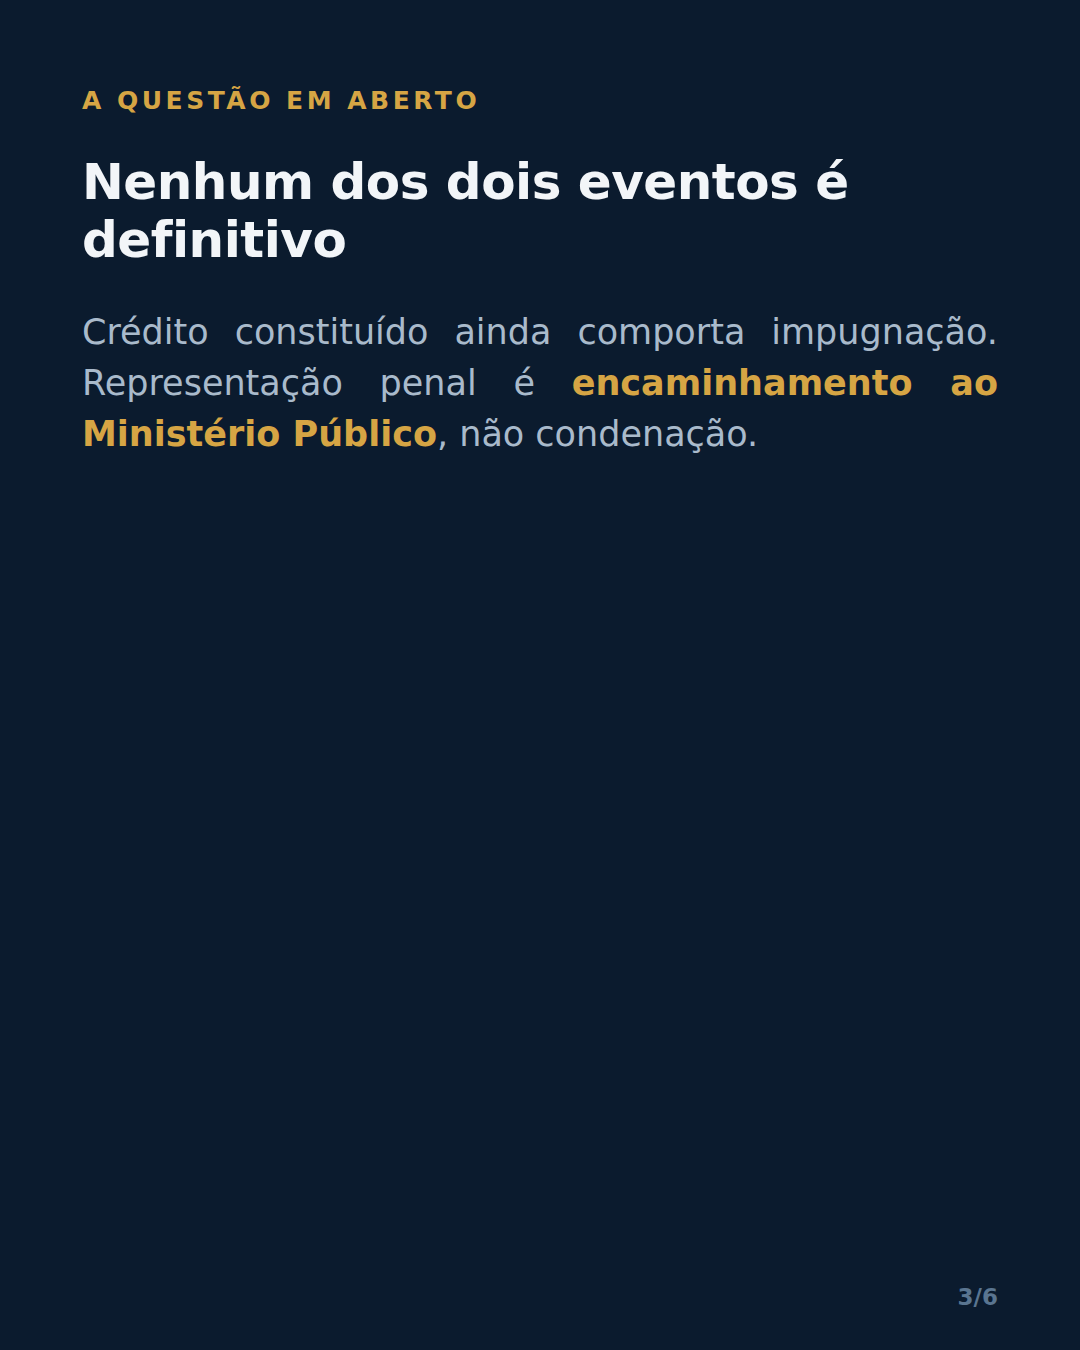
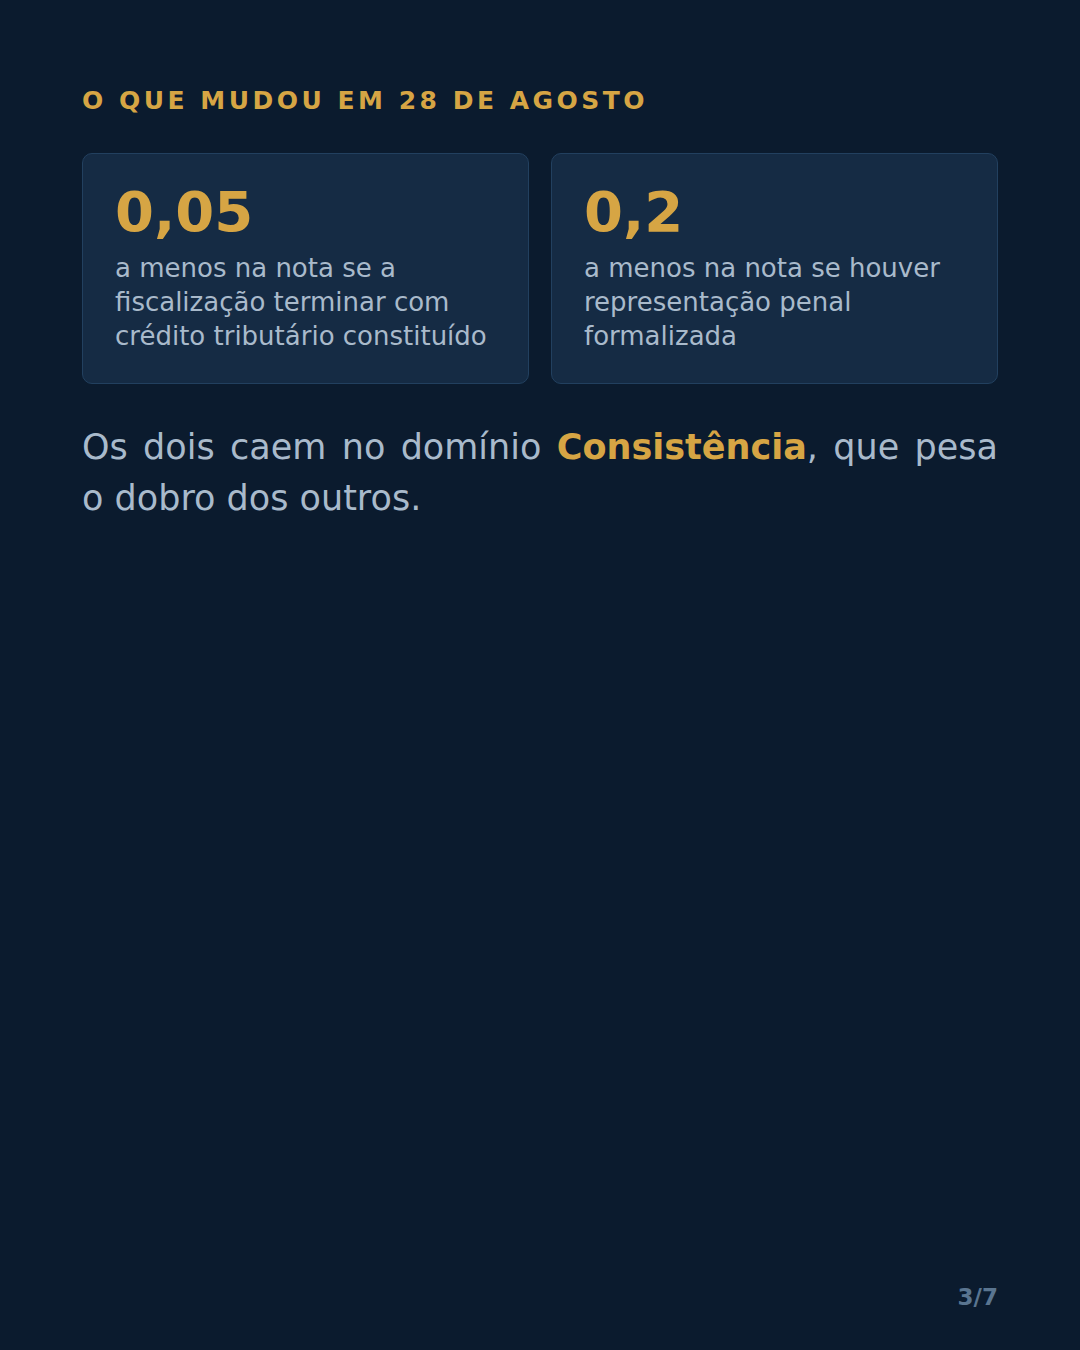
LinkedIn 2026-08-31 rev. 2: reescrita didatica do texto e do carrossel
O usuario reprovou a rodada 1 por dificuldade de entendimento. Mantido o tema e
refeitos texto e slides, agora explicando o programa (escala A+ a D, peso do
dominio Consistencia, Selo Sintonia e bonus de ate 3% na CSLL) antes de entrar
nos redutores.

Abre o texto integral da IN RFB no 2.316/2026 no DOU, que na rodada 1 nao havia
sido localizado. Com ele a tese ganhou o ponto central: o art. 17, § 1o exclui a
impugnacao de lancamento do pedido de revisao da classificacao, de modo que
enquanto o contencioso corre nao ha via para derrubar o redutor.

Inclui folha-contato-celular.png (700 px, 2 colunas) para anexo em e-mail.

Claude-Session: https://claude.ai/code/session_01JazATEZeyNgF38SAJq4xMa

Changed region(s): [[0.0611, 0.1244, 0.9167, 0.3733], [0.0611, 0.0622, 0.6111, 0.0933]]

diff --git a/estado/publicacoes/2026-08-31-sintonia-redutores-ato-nao-definitivo/criativo/html/folha-contato.html b/estado/publicacoes/2026-08-31-sintonia-redutores-ato-nao-definitivo/criativo/html/folha-contato.html
@@ -1,9 +1,9 @@
 <meta charset="utf-8"><style>
       *{margin:0;padding:0;box-sizing:border-box}
       body{background:#06111d;padding:16px;display:grid;
-           grid-template-columns:repeat(4,383px);gap:12px}
+           grid-template-columns:repeat(2,328px);gap:12px}
       .c{position:relative;line-height:0}
-      .c img{width:383px;display:block;border-radius:6px}
+      .c img{width:328px;display:block;border-radius:6px}
       .c span{position:absolute;right:6px;top:6px;background:#D6A544;color:#0B1B2E;
               font:700 13px/1 Arial,sans-serif;padding:4px 7px;border-radius:4px}
-    </style><div class="c"><img src="file:///home/user/Valida-o---NCM-RTC_EscritaFiscal/estado/publicacoes/2026-08-31-sintonia-redutores-ato-nao-definitivo/criativo/slide-01.png"><span>1</span></div><div class="c"><img src="file:///home/user/Valida-o---NCM-RTC_EscritaFiscal/estado/publicacoes/2026-08-31-sintonia-redutores-ato-nao-definitivo/criativo/slide-02.png"><span>2</span></div><div class="c"><img src="file:///home/user/Valida-o---NCM-RTC_EscritaFiscal/estado/publicacoes/2026-08-31-sintonia-redutores-ato-nao-definitivo/criativo/slide-03.png"><span>3</span></div><div class="c"><img src="file:///home/user/Valida-o---NCM-RTC_EscritaFiscal/estado/publicacoes/2026-08-31-sintonia-redutores-ato-nao-definitivo/criativo/slide-04.png"><span>4</span></div><div class="c"><img src="file:///home/user/Valida-o---NCM-RTC_EscritaFiscal/estado/publicacoes/2026-08-31-sintonia-redutores-ato-nao-definitivo/criativo/slide-05.png"><span>5</span></div><div class="c"><img src="file:///home/user/Valida-o---NCM-RTC_EscritaFiscal/estado/publicacoes/2026-08-31-sintonia-redutores-ato-nao-definitivo/criativo/slide-06.png"><span>6</span></div>
+    </style><div class="c"><img src="file:///home/user/Valida-o---NCM-RTC_EscritaFiscal/estado/publicacoes/2026-08-31-sintonia-redutores-ato-nao-definitivo/criativo/slide-01.png"><span>1</span></div><div class="c"><img src="file:///home/user/Valida-o---NCM-RTC_EscritaFiscal/estado/publicacoes/2026-08-31-sintonia-redutores-ato-nao-definitivo/criativo/slide-02.png"><span>2</span></div><div class="c"><img src="file:///home/user/Valida-o---NCM-RTC_EscritaFiscal/estado/publicacoes/2026-08-31-sintonia-redutores-ato-nao-definitivo/criativo/slide-03.png"><span>3</span></div><div class="c"><img src="file:///home/user/Valida-o---NCM-RTC_EscritaFiscal/estado/publicacoes/2026-08-31-sintonia-redutores-ato-nao-definitivo/criativo/slide-04.png"><span>4</span></div><div class="c"><img src="file:///home/user/Valida-o---NCM-RTC_EscritaFiscal/estado/publicacoes/2026-08-31-sintonia-redutores-ato-nao-definitivo/criativo/slide-05.png"><span>5</span></div><div class="c"><img src="file:///home/user/Valida-o---NCM-RTC_EscritaFiscal/estado/publicacoes/2026-08-31-sintonia-redutores-ato-nao-definitivo/criativo/slide-06.png"><span>6</span></div><div class="c"><img src="file:///home/user/Valida-o---NCM-RTC_EscritaFiscal/estado/publicacoes/2026-08-31-sintonia-redutores-ato-nao-definitivo/criativo/slide-07.png"><span>7</span></div>

diff --git a/estado/publicacoes/2026-08-31-sintonia-redutores-ato-nao-definitivo/criativo/html/slide-05.html b/estado/publicacoes/2026-08-31-sintonia-redutores-ato-nao-definitivo/criativo/html/slide-05.html
@@ -42,4 +42,4 @@ ol li::before{content:counter(i);position:absolute;left:0;top:-2px;width:52px;
 .dado .d{font-size:26px;color:#A9BACB;margin-top:12px;line-height:1.3}
 .faixa{position:absolute;left:0;right:0;height:10px;background:#D6A544}
 .faixa.top{top:0} .faixa.bot{bottom:0}
-</style><div class="kicker">A consequência</div><div class="gap"></div><h2>O ônus do tempo é do contribuinte</h2><div class="gap"></div><ol><li>Rebaixa primeiro, reabilita depois: o prazo do contencioso corre contra quem foi classificado.</li><li>O indício pesa quatro vezes mais que o crédito efetivamente constituído.</li><li>A assimetria entre os dois redutores está no Anexo Único, não na lei instituidora.</li></ol><div class="grow"></div><div class="num">5/6</div>
+</style><div class="kicker">E não há por onde reclamar</div><div class="gap"></div><div class="box"><div class="lab">Revisão da classificação</div><div class="val">Só cabe para erro material.<br>O art. 17, § 1º exclui<br>impugnação de lançamento.</div></div><div class="box"><div class="lab">Contencioso fiscal</div><div class="val">O redutor só cai se houver<br>nulidade ou total improcedência.<br>Até lá, segue valendo.</div></div><div class="gap"></div><p>Enquanto o processo corre, a nota fica baixa <span class="hi">sem via de correção</span>.</p><div class="grow"></div><div class="num">5/7</div>

diff --git a/estado/publicacoes/2026-08-31-sintonia-redutores-ato-nao-definitivo/criativo/html/slide-03.html b/estado/publicacoes/2026-08-31-sintonia-redutores-ato-nao-definitivo/criativo/html/slide-03.html
@@ -42,4 +42,4 @@ ol li::before{content:counter(i);position:absolute;left:0;top:-2px;width:52px;
 .dado .d{font-size:26px;color:#A9BACB;margin-top:12px;line-height:1.3}
 .faixa{position:absolute;left:0;right:0;height:10px;background:#D6A544}
 .faixa.top{top:0} .faixa.bot{bottom:0}
-</style><div class="kicker">A questão em aberto</div><div class="gap"></div><h2>Nenhum dos dois eventos é definitivo</h2><div class="gap"></div><p>Crédito constituído ainda comporta impugnação. Representação penal é <span class="hi">encaminhamento ao Ministério Público</span>, não condenação.</p><div class="grow"></div><div class="num">3/6</div>
+</style><div class="kicker">O que mudou em 28 de agosto</div><div class="gap"></div><div class="dados"><div class="dado"><div class="n">0,05</div><div class="d">a menos na nota se a fiscalização terminar com crédito tributário constituído</div></div><div class="dado"><div class="n">0,2</div><div class="d">a menos na nota se houver representação penal formalizada</div></div></div><div class="gap"></div><p>Os dois caem no domínio <span class="hi">Consistência</span>, que pesa o dobro dos outros.</p><div class="grow"></div><div class="num">3/7</div>

diff --git a/estado/publicacoes/2026-08-31-sintonia-redutores-ato-nao-definitivo/criativo/html/slide-02.html b/estado/publicacoes/2026-08-31-sintonia-redutores-ato-nao-definitivo/criativo/html/slide-02.html
@@ -42,4 +42,4 @@ ol li::before{content:counter(i);position:absolute;left:0;top:-2px;width:52px;
 .dado .d{font-size:26px;color:#A9BACB;margin-top:12px;line-height:1.3}
 .faixa{position:absolute;left:0;right:0;height:10px;background:#D6A544}
 .faixa.top{top:0} .faixa.bot{bottom:0}
-</style><div class="kicker">Os novos redutores</div><div class="gap"></div><div class="dados"><div class="dado"><div class="n">0,05</div><div class="d">Fiscalização encerrada com constituição de crédito tributário (item 4.1.6)</div></div><div class="dado"><div class="n">0,2</div><div class="d">Representação penal formalizada no período (item 4.1.7)</div></div></div><div class="gap"></div><p>Ambos incidem no domínio <span class="hi">Consistência</span> da classificação.</p><div class="grow"></div><div class="num">2/6</div>
+</style><div class="kicker">Como funciona</div><div class="gap"></div><h2>A Receita dá nota e classifica de A+ a D</h2><div class="gap"></div><p>Quatro domínios formam a nota: Cadastro, Declarações, Consistência e Pagamento. Quem chega em A+ leva o <span class="hi">Selo Sintonia</span> e desconto de até 3% na CSLL.</p><div class="grow"></div><div class="num">2/7</div>

diff --git a/estado/publicacoes/2026-08-31-sintonia-redutores-ato-nao-definitivo/criativo/html/slide-04.html b/estado/publicacoes/2026-08-31-sintonia-redutores-ato-nao-definitivo/criativo/html/slide-04.html
@@ -42,4 +42,4 @@ ol li::before{content:counter(i);position:absolute;left:0;top:-2px;width:52px;
 .dado .d{font-size:26px;color:#A9BACB;margin-top:12px;line-height:1.3}
 .faixa{position:absolute;left:0;right:0;height:10px;background:#D6A544}
 .faixa.top{top:0} .faixa.bot{bottom:0}
-</style><div class="kicker">A norma sabe disso</div><div class="gap"></div><div class="box"><div class="lab">Item 4.1.6.1</div><div class="val">Desconsidera o redutor se houver<br>nulidade ou total improcedência.</div></div><div class="box"><div class="lab">Art. 14, § 4º</div><div class="val">Restabelece o benefício se a<br>conduta não for confirmada.</div></div><div class="gap"></div><p>O que ela não faz é <span class="hi">suspender o efeito</span> enquanto a definitividade não chega.</p><div class="grow"></div><div class="num">4/6</div>
+</style><div class="kicker">A questão</div><div class="gap"></div><h2>Nenhum dos dois eventos está decidido</h2><div class="gap"></div><p>Crédito constituído ainda comporta impugnação. Representação penal é <span class="hi">encaminhamento ao Ministério Público</span>, não condenação.</p><div class="grow"></div><div class="num">4/7</div>

diff --git a/estado/publicacoes/2026-08-31-sintonia-redutores-ato-nao-definitivo/criativo/html/slide-06.html b/estado/publicacoes/2026-08-31-sintonia-redutores-ato-nao-definitivo/criativo/html/slide-06.html
@@ -42,4 +42,4 @@ ol li::before{content:counter(i);position:absolute;left:0;top:-2px;width:52px;
 .dado .d{font-size:26px;color:#A9BACB;margin-top:12px;line-height:1.3}
 .faixa{position:absolute;left:0;right:0;height:10px;background:#D6A544}
 .faixa.top{top:0} .faixa.bot{bottom:0}
-</style><div class="kicker">Para vigiar</div><div class="gap"></div><h2>Como será tratado o pedido de revisão da classificação (art. 17) com o mérito pendente</h2><div class="grow"></div><div class="rule"></div><div class="gap"></div><div class="sig">Luis Santos<br>Direito Tributário e Análise de Dados Fiscais</div><div class="num">6/6</div>
+</style><div class="kicker">O que isso significa</div><div class="gap"></div><h2>Quem espera é o contribuinte</h2><div class="gap"></div><ol><li>Procedência parcial, que é o desfecho mais comum, mantém o redutor inteiro.</li><li>O indício pesa quatro vezes mais que o crédito efetivamente constituído.</li><li>A assimetria está no Anexo Único da instrução, não na LC nº 225/2026.</li></ol><div class="grow"></div><div class="num">6/7</div>

diff --git a/estado/publicacoes/2026-08-31-sintonia-redutores-ato-nao-definitivo/criativo/html/slide-07.html b/estado/publicacoes/2026-08-31-sintonia-redutores-ato-nao-definitivo/criativo/html/slide-07.html
@@ -42,4 +42,4 @@ ol li::before{content:counter(i);position:absolute;left:0;top:-2px;width:52px;
 .dado .d{font-size:26px;color:#A9BACB;margin-top:12px;line-height:1.3}
 .faixa{position:absolute;left:0;right:0;height:10px;background:#D6A544}
 .faixa.top{top:0} .faixa.bot{bottom:0}
-</style><div class="kicker">Conformidade Tributária</div><div class="gap"></div><h1>A nota cai antes de a decisão sair</h1><div class="gap"></div><div class="rule"></div><div class="grow"></div><p>IN RFB nº 2.339/2026 (Programa Sintonia)<br><span class="hi">DOU de 28 de agosto de 2026</span></p><div class="faixa top"></div><div class="faixa bot"></div>
+</style><div class="kicker">Para debater</div><div class="gap"></div><h2>Um redutor por lançamento ainda sob impugnação cabe num programa de estímulo?</h2><div class="grow"></div><div class="rule"></div><div class="gap"></div><div class="sig">Luis Santos<br>Direito Tributário e Análise de Dados Fiscais</div><div class="num">7/7</div>

diff --git a/estado/publicacoes/2026-08-31-sintonia-redutores-ato-nao-definitivo/texto.md b/estado/publicacoes/2026-08-31-sintonia-redutores-ato-nao-definitivo/texto.md
@@ -1,19 +1,17 @@
-A Receita Federal publicou no DOU de 28 de agosto a IN RFB nº 2.339/2026, que altera o Programa Sintonia. Por ela, perde-se nota por atos que ainda não são definitivos.
+A Receita classifica cada empresa de A+ a D conforme o grau de conformidade. Quem chega em A+ leva o Selo Sintonia e, com ele, desconto de até 3% na CSLL. A IN RFB nº 2.339/2026 mudou como se perde essa nota.
 
-A instrução cria dois redutores no domínio Consistência. O item 4.1.6 reduz 0,05 na nota quando o contribuinte é fiscalizado e o procedimento se encerra com constituição de crédito tributário. O item 4.1.7 reduz 0,2 quando há representação penal formalizada.
+A nota vem de quatro domínios: Cadastro, Declarações, Consistência e Pagamento. Consistência pesa o dobro dos outros (IN RFB nº 2.316/2026, art. 6º, § 4º). É nele que a nova instrução criou dois redutores: 0,05 se a fiscalização terminar com crédito tributário constituído, 0,2 se houver representação penal formalizada.
 
-O mesmo ato admitiu divulgação de nova classificação fora do prazo ordinário (art. 9º, § 4º) e fixou em um ano a validade do Selo Sintonia (art. 10, § 2º).
+Nenhum dos dois eventos é definitivo. Crédito constituído ainda comporta impugnação. Representação penal é encaminhamento ao Ministério Público, não condenação. A nota cai antes de qualquer decisão.
 
-A questão é o momento do efeito. Crédito constituído não é crédito definitivo, porque a impugnação ainda corre. Representação penal formalizada é encaminhamento ao Ministério Público, não condenação. Ainda assim, as duas já rebaixam a nota.
+O problema está na saída. O pedido de revisão da classificação só cabe para erro material, e o art. 17, § 1º exclui dele, expressamente, a impugnação de lançamento. E o redutor só é desconsiderado se o lançamento for anulado ou julgado totalmente improcedente.
 
-A própria instrução admite a provisoriedade. O item 4.1.6.1 manda desconsiderar o redutor se o lançamento for anulado ou julgado totalmente improcedente. O art. 14, § 4º manda restabelecer o benefício se a conduta não se confirmar.
+Enquanto o processo corre, então, não há porta: uma via não trata do assunto, a outra ainda não decidiu. A instrução admite que o pressuposto pode cair, mas escolheu quem espera. E procedência parcial, o desfecho mais comum, mantém o redutor inteiro.
 
-O que ela não faz é suspender o efeito até a decisão. O contribuinte é rebaixado primeiro e reabilitado depois, e o tempo do contencioso corre contra ele. E o indício pesa quatro vezes mais que o crédito constituído.
+No fechamento fiscal isso cria uma vigilância nova: encerramento de fiscalização e despacho decisório passam a mexer em um indicador, não só em um processo.
 
-Na rotina fiscal, muda o que se monitora: a nota passa a depender de eventos de fiscalização, que chegam por canais distintos da apuração.
+A assimetria está no Anexo Único, não na LC nº 225/2026. Para quem acompanha contencioso, fica a pergunta: um redutor por lançamento ainda sob impugnação cabe num programa que se diz de estímulo?
 
-Vale acompanhar como a Receita tratará o pedido de revisão da classificação (art. 17) com o mérito ainda pendente no contencioso. Quem já teve nota rebaixada por lançamento sob impugnação: o pedido foi conhecido?
-
-Fontes: IN RFB nº 2.339/2026 (DOU de 28/08/2026, Seção 1, p. 62), que altera a IN RFB nº 2.316/2026; LC nº 225/2026.
+Fontes: IN RFB nº 2.339/2026 (DOU de 28/08/2026, Seção 1, p. 62), que altera a IN RFB nº 2.316/2026 (arts. 6º, 8º, 12, 14 e 17); LC nº 225/2026.
 
 #DireitoTributário #ConformidadeTributária #ReceitaFederal #GestãoFiscal #Sintonia

diff --git a/estado/publicacoes/2026-08-31-sintonia-redutores-ato-nao-definitivo/log.md b/estado/publicacoes/2026-08-31-sintonia-redutores-ato-nao-definitivo/log.md
@@ -28,3 +28,30 @@
   é uma Routine remota em container efêmero, o check-in de 30 minutos provavelmente
   **não vai disparar**. A aprovação precisa ser retomada à mão, ou o conector
   claude-code-remote precisa ser habilitado na Routine.
+
+## Rodada 2 — 2026-08-31
+
+- 2026-08-31, 18h32 (UTC-4) — resposta do usuário na thread: "Mudar de tema, ou
+  escrever o texto e os slides de forma mais didática, está muito difícil de
+  entender". REFAZER, sem escolher entre os dois caminhos. Perguntado ao usuário
+  na sessão (ele estava presente), que optou por **ajustar o texto**.
+- 2026-08-31 — o check-in de 30 min não disparou, como previsto: o `CronCreate`
+  usado no lugar do `send_later` é session-only e morreu com o container.
+- 2026-08-31 — aberto no DOU o texto integral da **IN RFB nº 2.316/2026**
+  (https://in.gov.br/web/dou/-/instrucao-normativa-rfb-n-2.316-de-25-de-marco-de-2026-696030982),
+  que na rodada 1 não havia sido localizado no índice de busca. Com ele, o post
+  passou a poder explicar o programa: escala A+ a D (art. 8º), domínio
+  Consistência com peso 2 (art. 6º, § 4º), Selo Sintonia (art. 10) e bônus de
+  adimplência de até 3% na CSLL (arts. 12 e 13).
+- 2026-08-31 — **achado que fortalece a tese**: o art. 17, § 1º exclui
+  expressamente do pedido de revisão da classificação a impugnação de lançamento.
+  Ou seja, enquanto o contencioso corre não há via para derrubar o redutor: a
+  revisão não trata do assunto e o contencioso ainda não decidiu. A pergunta de
+  fecho da rodada 1 ("o pedido de revisão foi conhecido?") estava mal colocada e
+  foi substituída.
+- 2026-08-31 — texto reescrito: 1.829 caracteres, aprovado em bin/contar.py,
+  zero travessões. Carrossel refeito com 7 slides, template `dossie`, agora
+  explicando o programa antes de entrar nos redutores.
+- 2026-08-31 — gerada `folha-contato-celular.png` (700 px, 2 colunas) para
+  anexar no e-mail: o usuário pediu o anexo por estar no celular. A folha
+  canônica de 1600 px segue no pacote para o link do GitHub.
